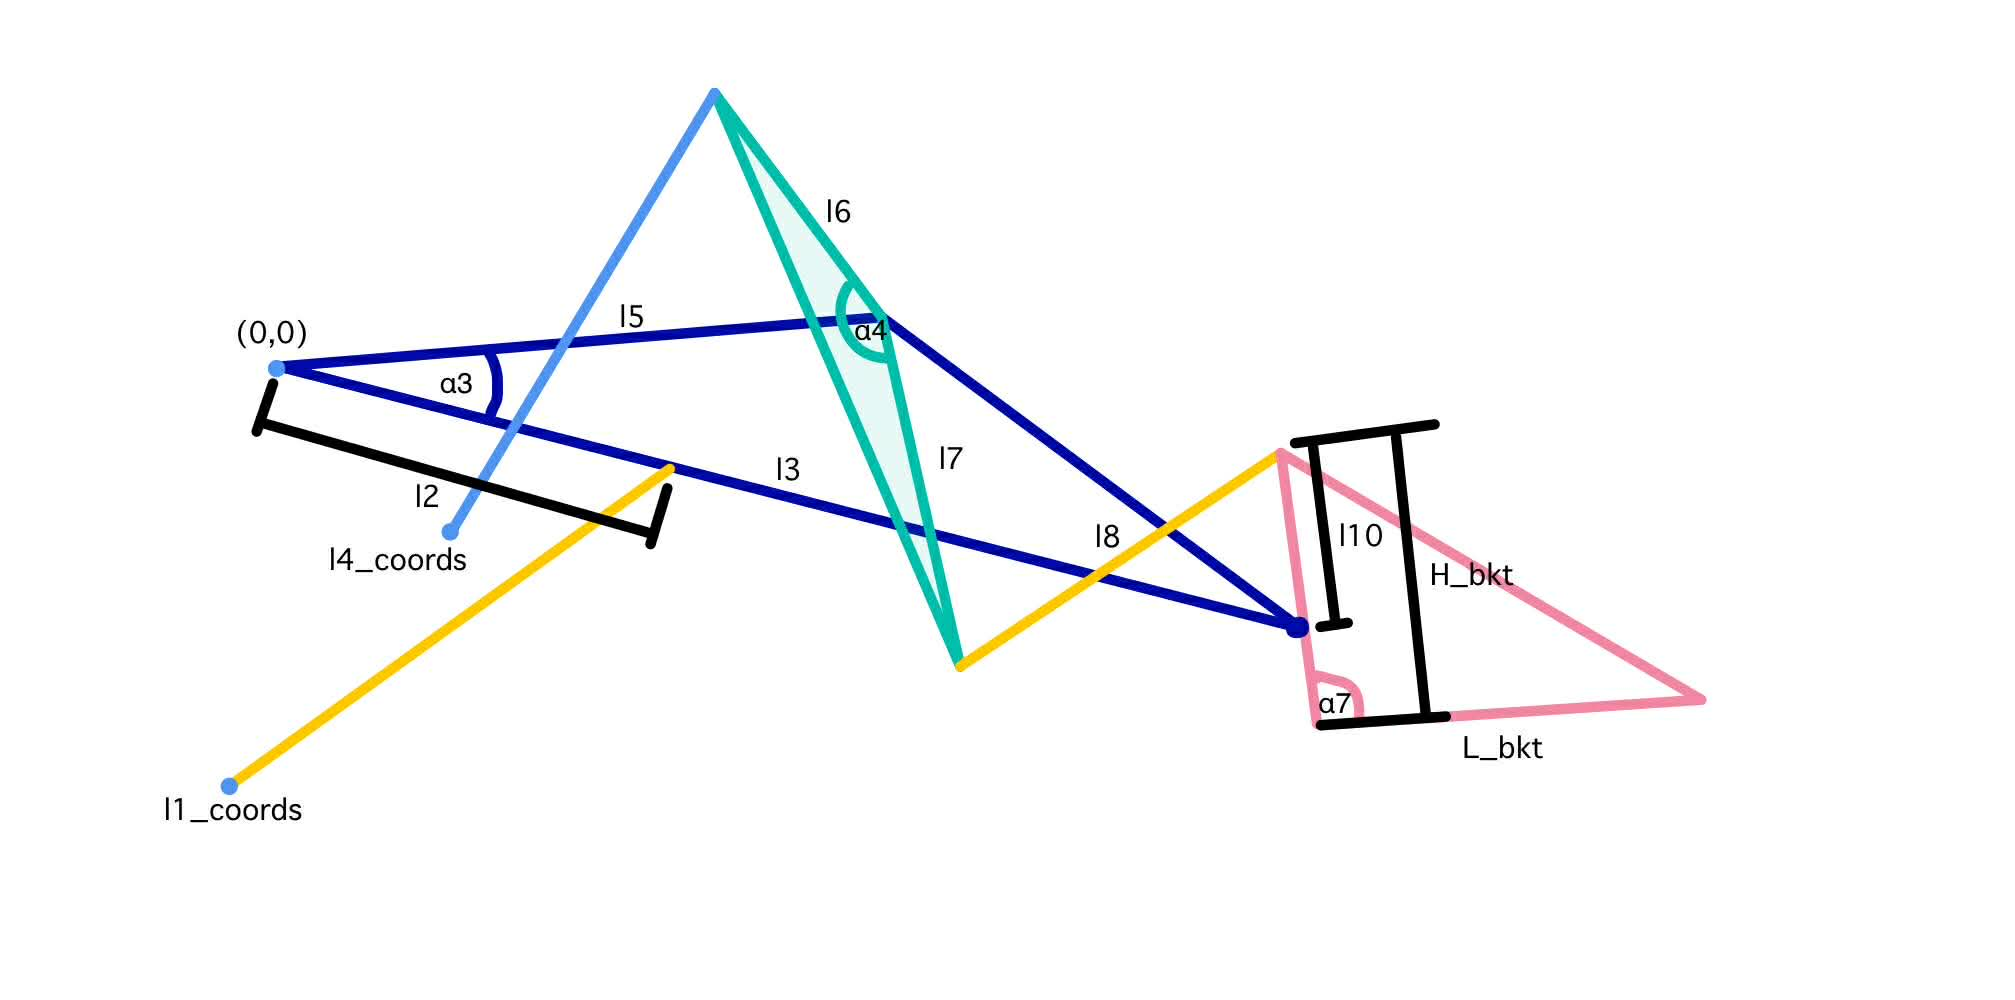
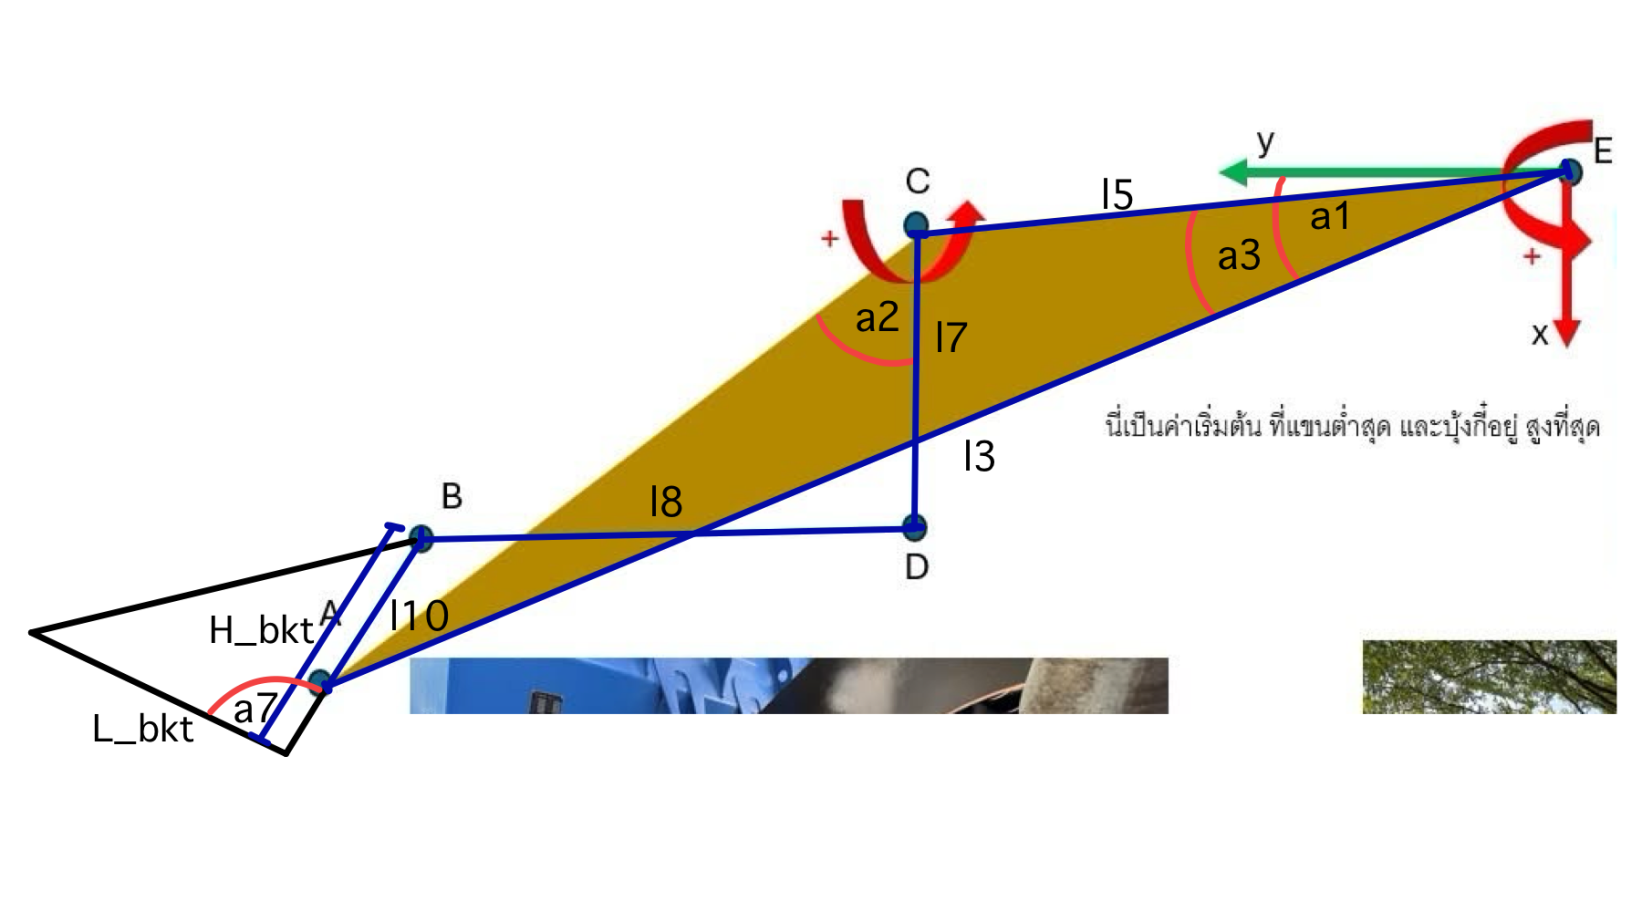
Update Readme

diff --git a/Readme.md b/Readme.md
@@ -143,12 +143,12 @@ Configuration is managed in `config/params.yaml`.
 These parameters define the fixed physical dimensions and joint locations of the wheel loader.
 |Parameter	|Type	|Default	|Description|
 | :--- | :--- | :--- | :--- |
-l1_coords, 	l4_coords|List	|(Various)	|[x, y] coordinates of the lift cylinder anchor and tilt cylinder anchor. |
-l2, l3, l5-l10	|Float	|(Various)	|Linkage segment lengths (m). Describe in picture.|
+l3, l5, l7, l8, l10	|Float	|(Various)	|Linkage segment lengths (m). Describe in picture.|
 L_bkt	|Float	|1.89815	|Horizontal length of the bucket.|
 H_bkt	|Float	|0.77523	|Vertical height of the bucket.|
 r	|Float	|1.0	|Radius of the loader wheels.|
-alpha3, 4, 7_deg | Float | (Various) | Angle offset between linkage (degree). Describe in picture.|
+alpha1, 2_deg | Float | (Various) | Start position angle of linkage when encoder is 0. Describe in picture. |
+alpha3, 7_deg | Float | (Various) | Angle offset between linkage (degree). Describe in picture.|
 
 image describe position of each linkage.
 ![alt text](img/image.png)
@@ -158,15 +158,13 @@ Hard constraints to prevent mechanical damage and ensure smooth trajectory gener
 
 |Parameter	|Type	|Default	|Description|
 | :--- | :--- | :--- | :--- |
-|limit_lift	|List	|[1.66, 2.65]	|[min, max] stroke length (m) for the lift cylinder.|
-|limit_tilt	|List	|[1.26, 1.84]	|[min, max] stroke length (m) for the tilt cylinder.|
 |vmax	|List	|[0.3, 0.3, 0.7]	|Max allowable velocity for [X, Y, Theta].|
 |amax	|List	|[0.1, 0.1, 0.3]	|Max allowable acceleration for [X, Y, Theta].|
-|y_offset	|Float	|1.7932	|Distance from the arm pivot (0,0 in kinematic frame) to the floor level.|
+|y_offset	|Float	|1.8	|Distance from the arm pivot (0,0 in kinematic frame) to the floor level.|
 |x_offset	|Float	|0.0	|Distance from the arm pivot (0,0 in kinematic frame) to center of wheel loader or base frame of wheel loader.|
-|replan_period	|Float	|0.5	|How often the trajectory generator refreshes the path.|
+|replan_period	|Float	|0.2	|How often the trajectory generator refreshes the path.|
 |arrival_tolerance	|Float	|0.1	|Distance error (m) allowed before considering a waypoint reached.|
-|dt	|Float	|0.02	|Global control loop period (default 50Hz).|
+|dt	|Float	|0.01	|Global control loop period (default 50Hz).|
 
 **Autonomous Dig Cycle (State Gen)**
 Logic-based parameters that determine the shape and aggressiveness of the digging path.
